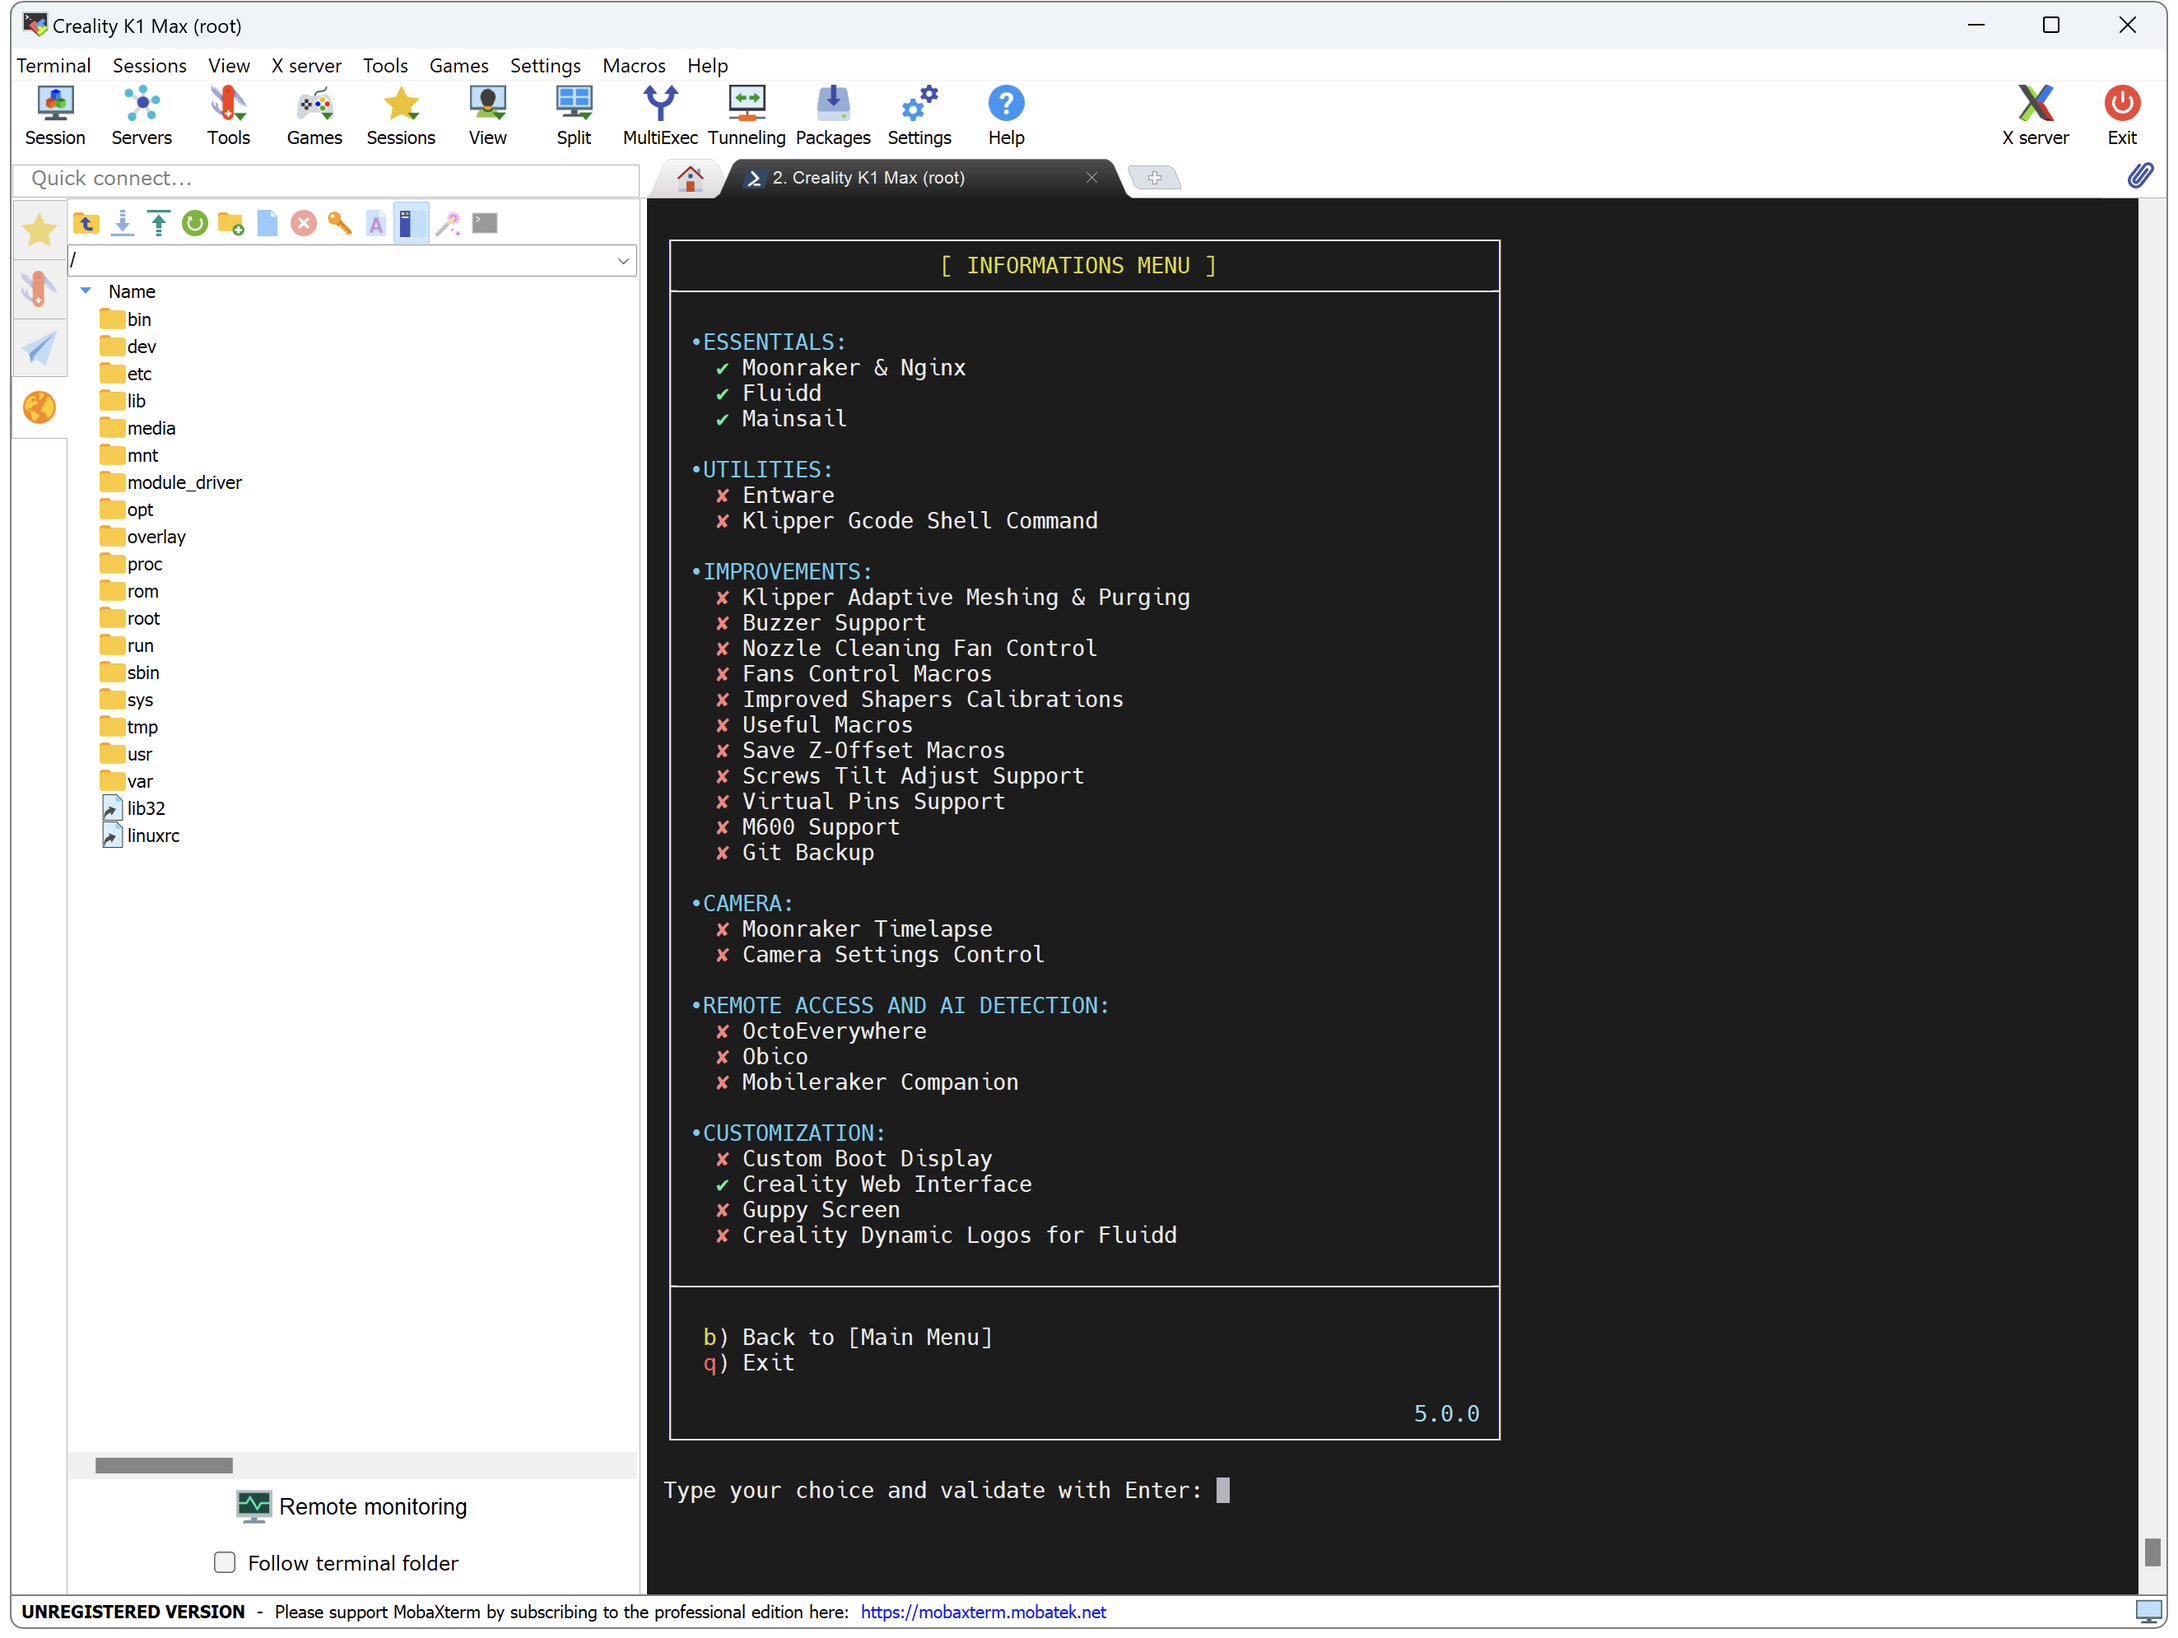
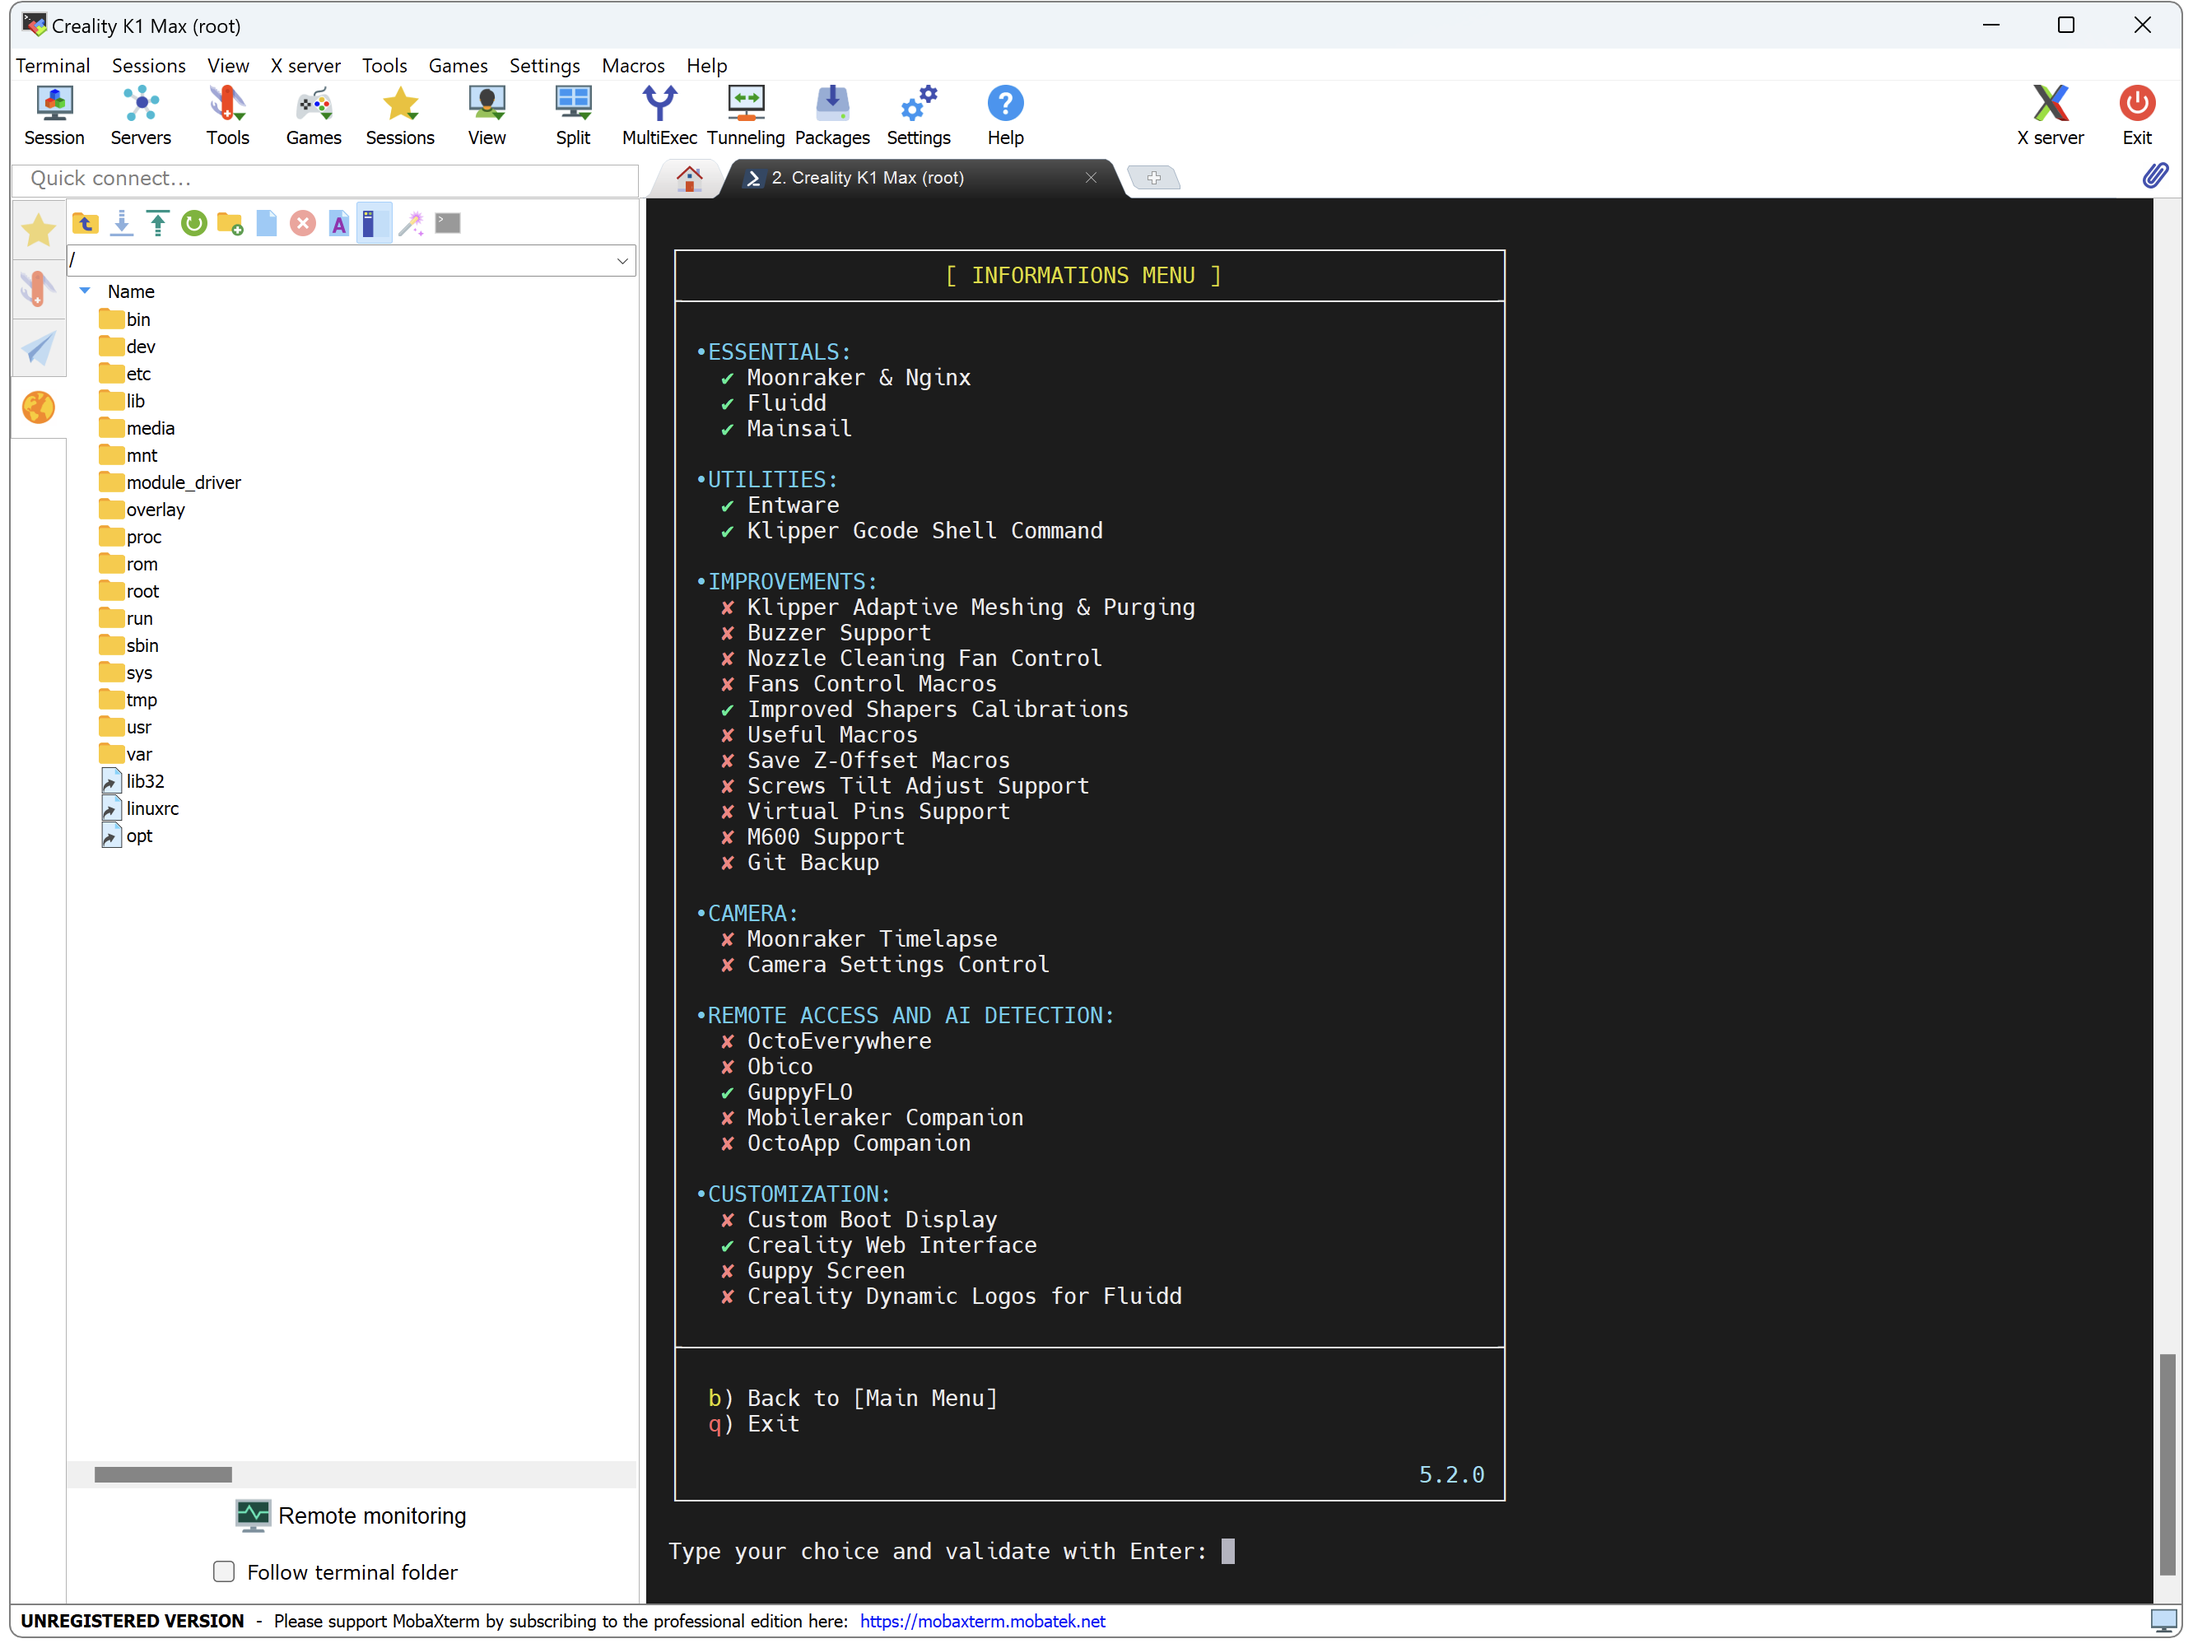
Update

diff --git a/docs/changelog.md b/docs/changelog.md
@@ -2,6 +2,10 @@
 hide:
   - toc
 ---
+#### 30/03/2024
+
+  - Updated script to 5.2.0 to add support for `OctoApp Companion` (Thanks to [crysxd](https://github.com/crysxd)). See new section on wiki [here](helper-script/octoapp-companion.md).
+
 #### 27/03/2024
 
 - Updated [GuppyFLO](helper-script/guppyflo.md) section to add configuration for camera.
